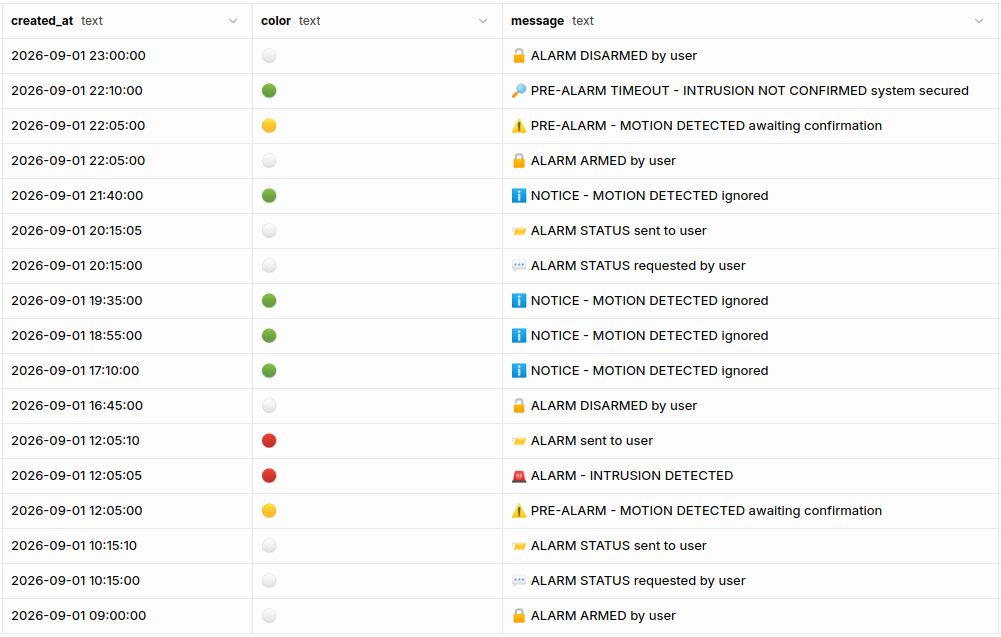
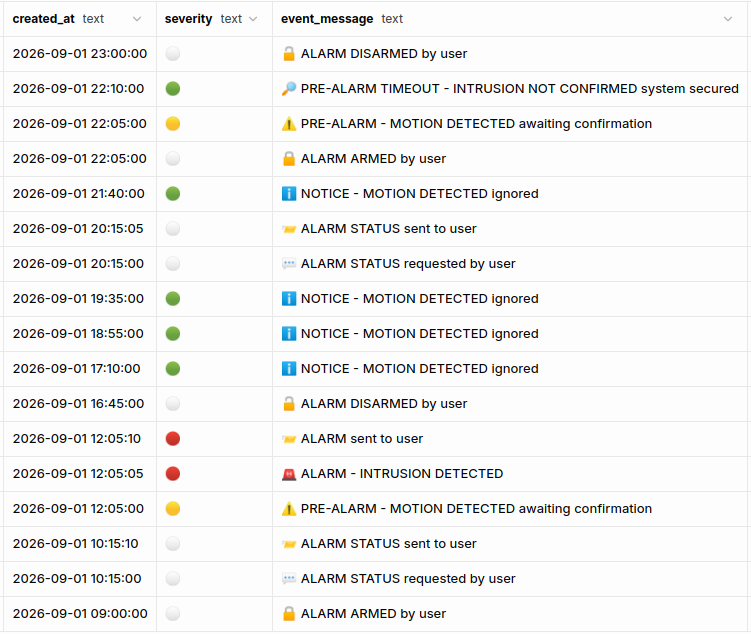
fix

diff --git a/esp32/TELEGRAM commands.md b/esp32/TELEGRAM commands.md
@@ -1,0 +1,3 @@
+off - ALARM OFF
+on - ALARM ON
+status - ALARM STATUS
